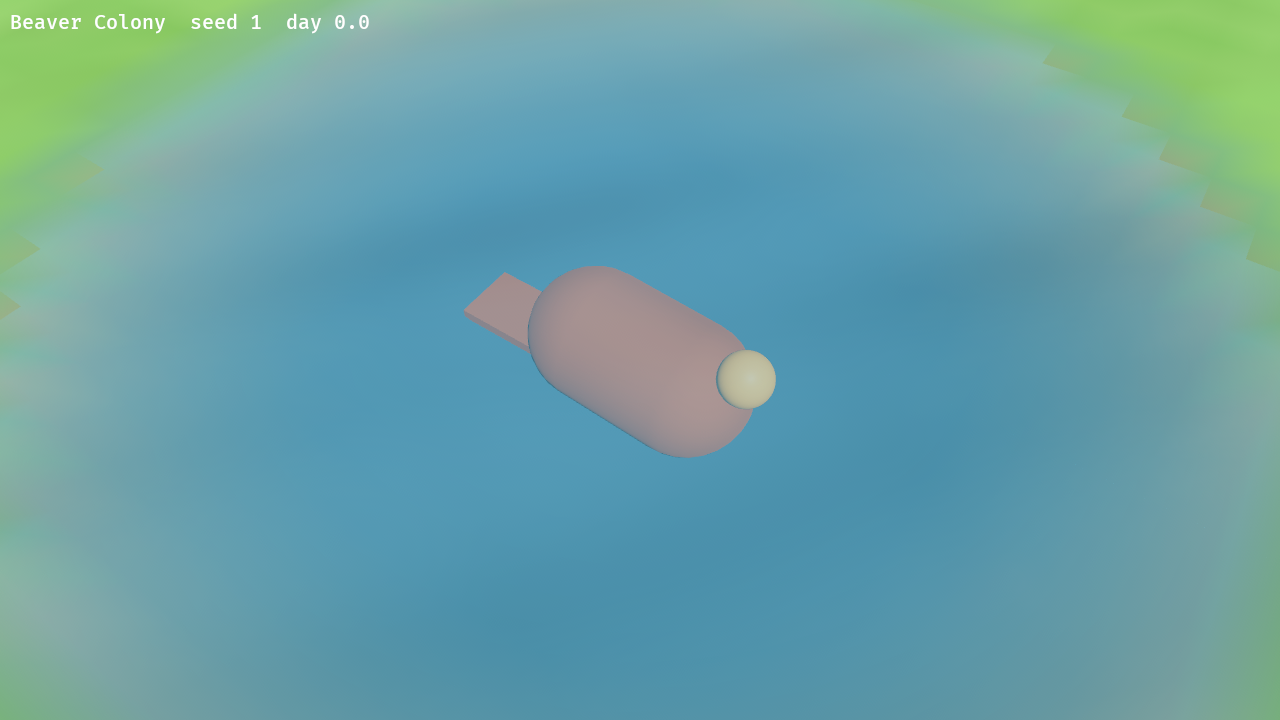
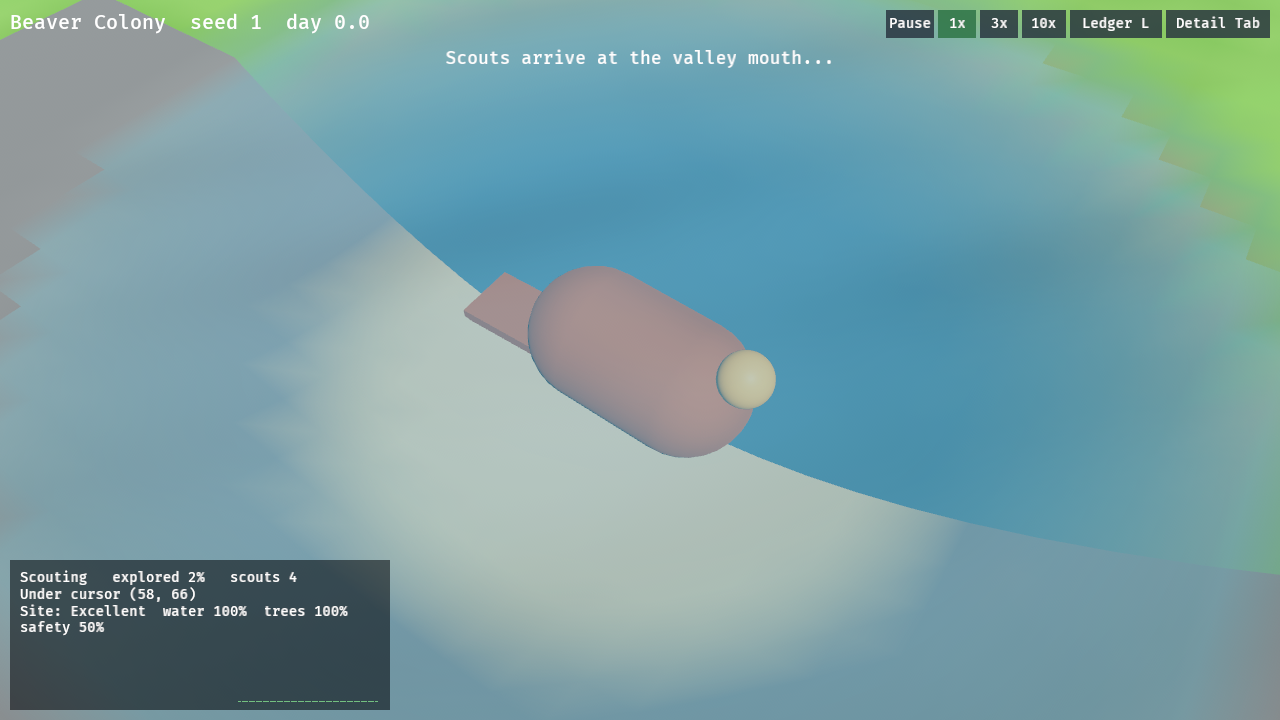
R12-23 Recapture world/close seed1 screenshots and iso frame log from HEAD b46d1f4

diff --git a/artifacts/R12-9/CAPTURE.md b/artifacts/R12-9/CAPTURE.md
@@ -1,0 +1,7 @@
+Captured from binary built (`cargo build --release -p game`) at commit b46d1f423d5959c09c58d68d21acec0ed7bd6aea (clean tree).
+Env: BEAVER_DEMO=1 (required for lake + test object). Seed 1.
+- world_seed1.png: `beaver_colony --seed 1 --cam iso --screenshot ... --frames 30`
+- close_seed1.png: BEAVER_DEMO_CAM=close, `--seed 1 --screenshot ... --frames 30`
+- frame_iso.txt: BEAVER_FRAMELOG=... `--seed 1 --cam iso` (no --screenshot; screenshot mode exits before sampling ends and leaves the log unwritten). avg_ms=1.93
+Without BEAVER_DEMO=1 there is no water or object (screenshots show bare terrain).
+Not regenerated: *_seed2/3, iso/top/low/autumn/winter, frame_top.
